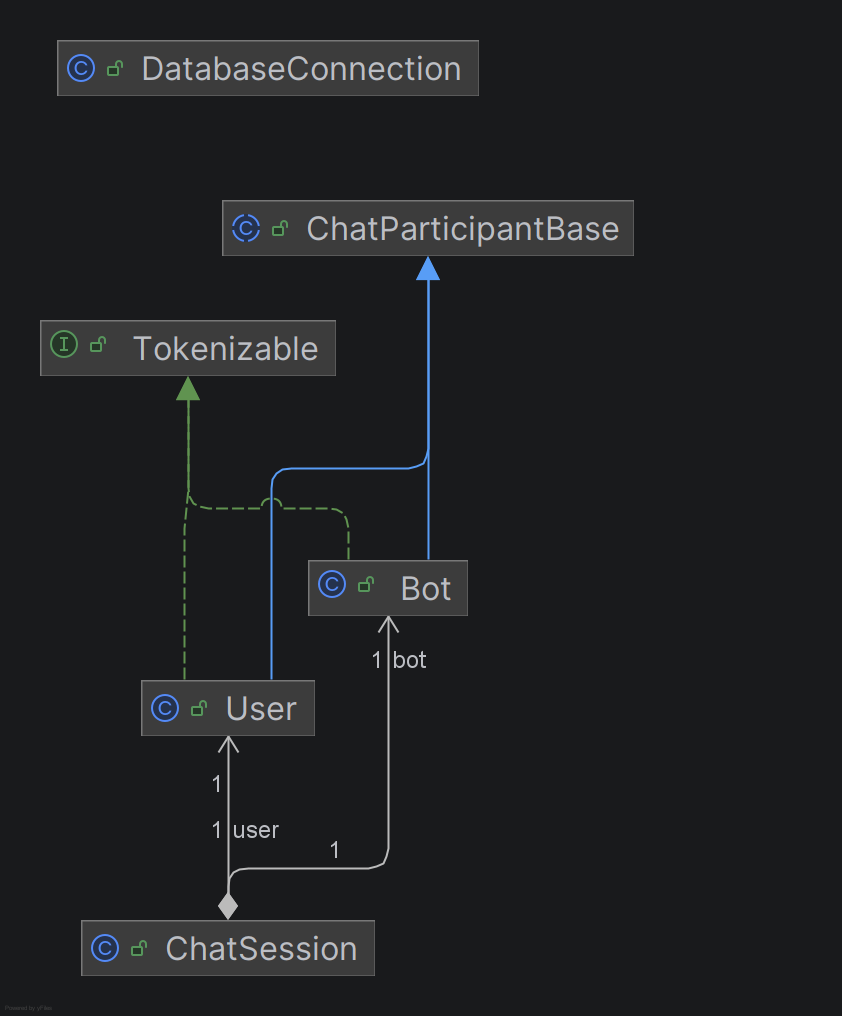
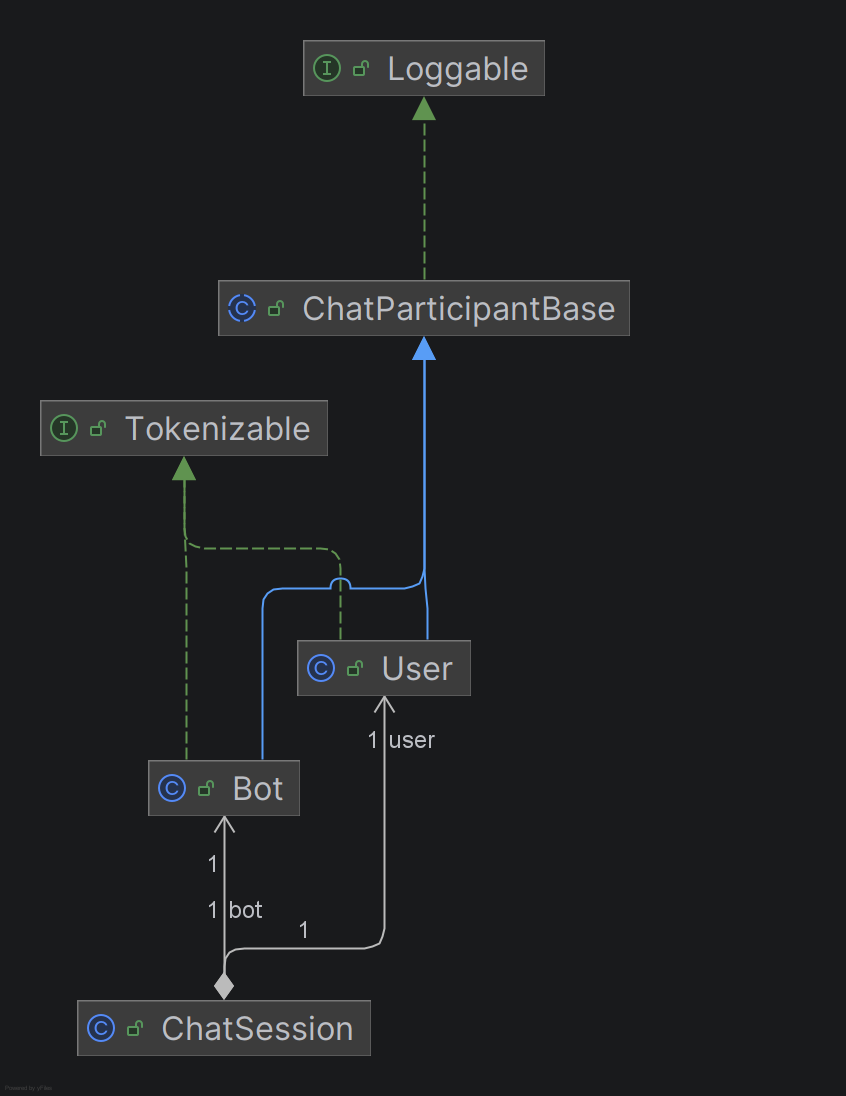
docs: update screenshots and README to reflect new CLI structure

Changed region(s): [[0.0309, 0.1831, 0.772, 0.9764], [0.0618, 0.0305, 0.6485, 0.122]]

diff --git a/README.md b/README.md
@@ -89,13 +89,16 @@ INSERT INTO bots (name, greeting, definition, token_limit) VALUES
 
 The `Main` class serves as the Controller layer. It configures the application using **Dependency Injection** (wiring Repositories with the Database provider) and exposes full CRUD operations via CLI.
 
-### Summary of CRUD operations
-* **Create**: `service.createBot()` / `service.createUser()` -> Validates input and persists to DB.
-* **Read**: `repository.getAll()` -> Fetches list of entities.
-* **Update**: `service.updateBot()` -> Modifies name, definition, or limits of an existing bot.
-* **Delete**: `service.deleteBot()` -> Removes a bot from the DB (cascading deletes sessions).
-* **Session Logging**: `service.logChatSession()` -> Calculates context load and saves the interaction history to the `chat_sessions` table.
+### Menu Structure
+1.  **Manage BOTS**: Sub-menu for Creating, Reading (All/ById), Updating, and Deleting Bots.
+2.  **Manage USERS**: Sub-menu for Creating, Reading (All/ById), Updating, and Deleting Users.
+3.  **Manage SESSIONS**: Sub-menu for Starting Chats, Viewing History, Updating Tokens, and Deleting Logs.
 
+### Architecture Flow
+* **Controller (`Main`)**: Handles user input via `Scanner`, displays menus, and delegates logic to the Service layer.
+* **Service (`ChatService`)**: Validates input (e.g., checks for empty names, negative limits) and calls Repositories.
+* **Repository Layer**: Executes raw SQL queries using `PreparedStatement`.
+* 
 ---
 
 ## E. Instructions to Compile and Run
@@ -133,29 +136,21 @@ java -cp ".:../lib/postgresql-42.7.2.jar" controller.Main
 ---
 ## F. Screenshots
 
-### 1. Create Operations
-Demonstrates adding new entities (Bot and User) with validation logic.
-![Create Bot](docs/screenshots/create_bot.png)
+### 1. Main Hierarchical Menu
+The new entry point of the application, allowing selection between Bots, Users, and Sessions entities.
+![Main Menu](docs/screenshots/main_menu.png)
 
-### 2. Read Operations (List All)
-Retrieves and displays all bots stored in the database.
-![Read Operations](docs/screenshots/list.png)
+### 2. Bot Management Sub-Menu
+Demonstrates the specific CRUD operations available for Bots (Create, Show All, Find by ID, Update, Delete).
+![Bot Menu](docs/screenshots/bot_menu.png)
 
-### 3. Update Operation
-Demonstrates modifying an existing bot's attributes (e.g., changing token limit or name).
-![Update Bot](docs/screenshots/update_bot.png)
+### 3. Session History & Logic
+Shows the session history table, displaying linked Bot IDs and User IDs correctly persisted in the database.
+![Session History](docs/screenshots/session_history.png)
 
-### 4. Delete Operation
-Demonstrates removing a bot by ID. Note that due to `ON DELETE CASCADE`, associated sessions are also handled safely.
-![Delete Bot](docs/screenshots/delete_bot.png)
-
-### 5. Chat Session Logging
-Shows the process of linking a User and a Bot. The system calculates the context load and logs the session to the database.
-![Chat Session](docs/screenshots/session.png)
-
-### 6. Error Handling
-Demonstrates robust error handling (e.g., preventing negative token limits or handling connection errors).
-![Error Handling](docs/screenshots/error.png)
+### 4. Robust Error Handling
+Demonstrates the system catching invalid inputs (e.g., entering text instead of a numeric ID) without crashing.
+![Error Handling](docs/screenshots/error_handling.png)
 
 ---
 
